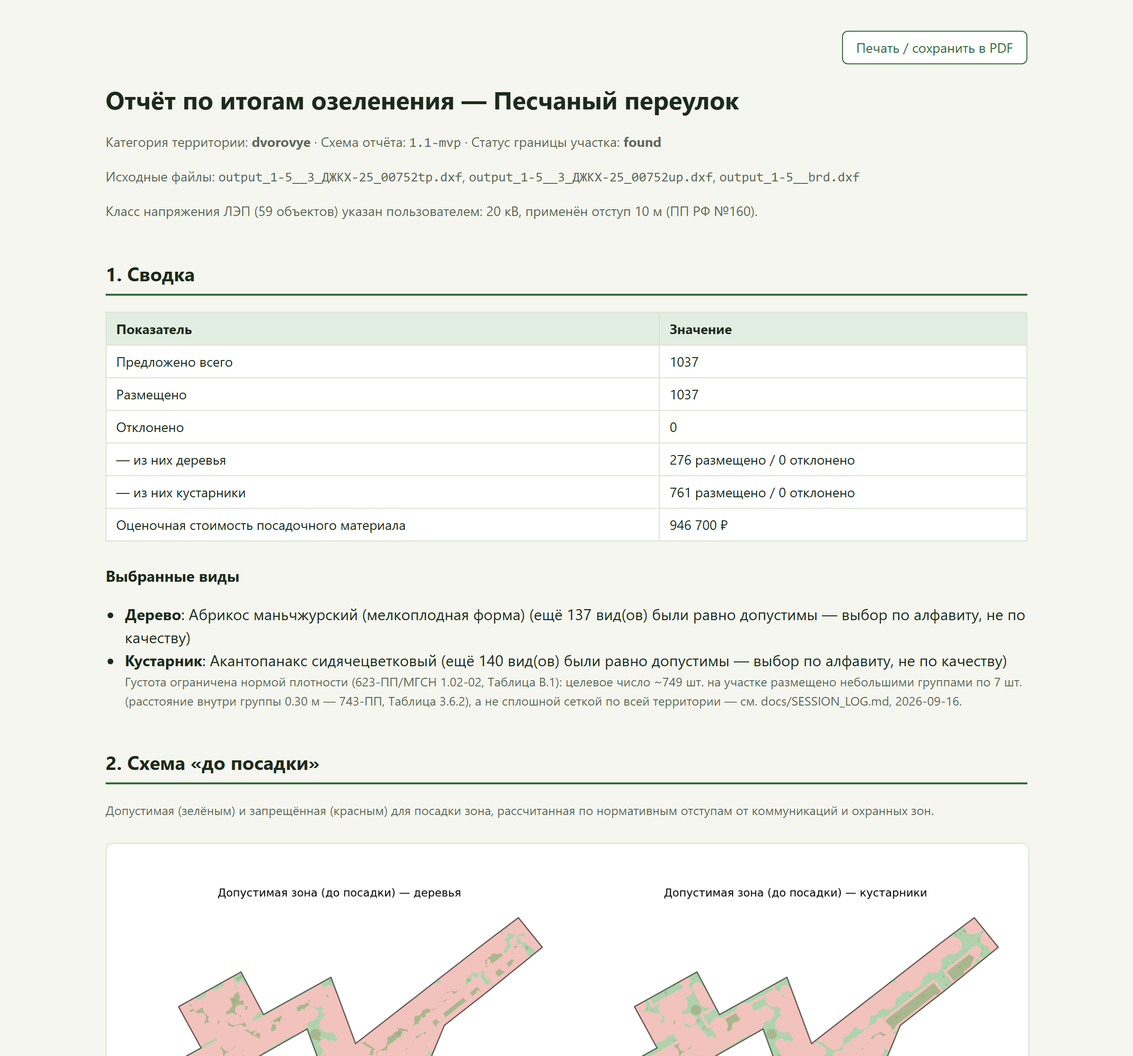
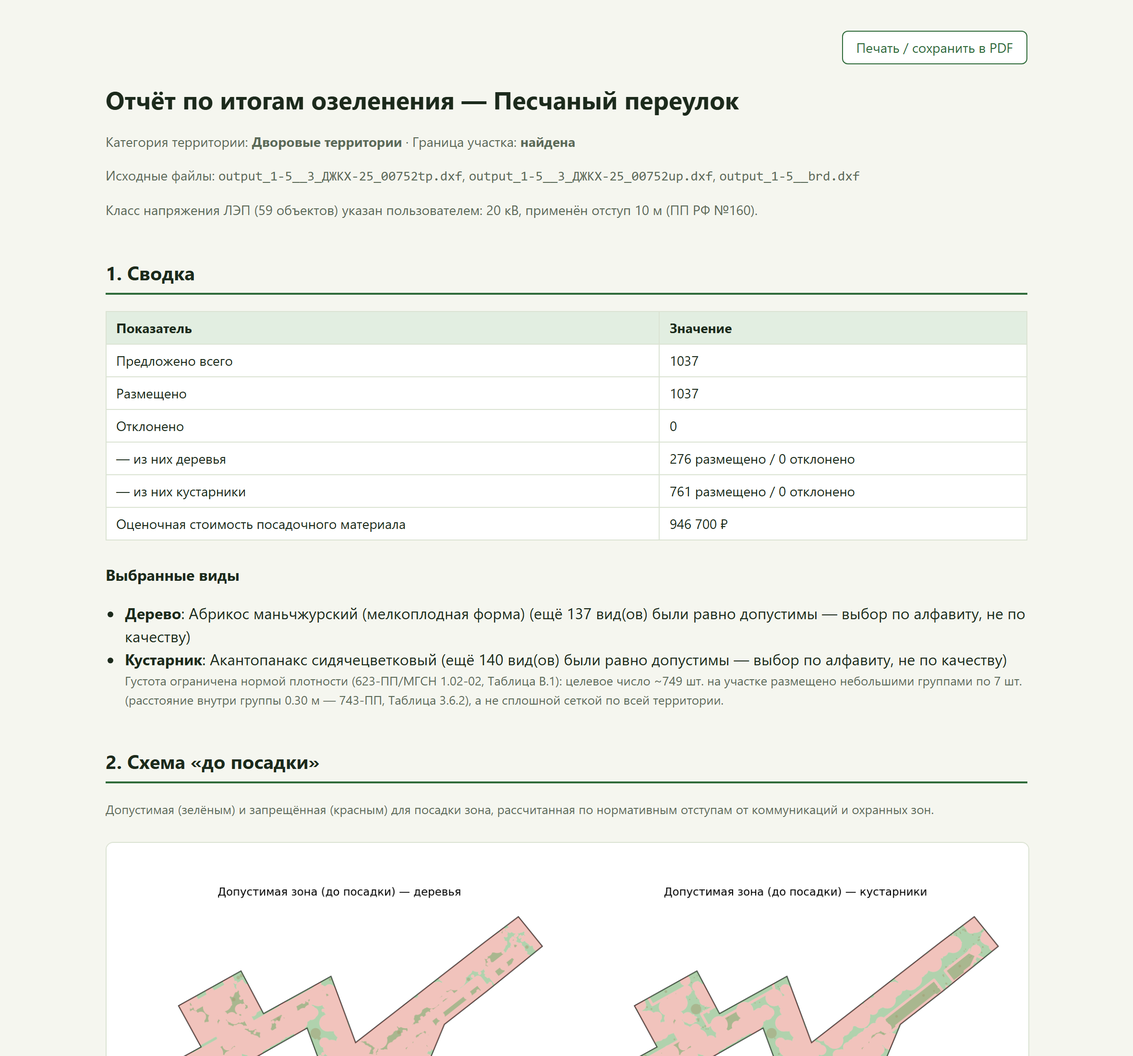
feat(report): отчёт без кодовых обозначений, компактная таблица деревьев; уточнено про DWG
Категория территории и граница участка указаны словами; ссылки на внутренние файлы и поля
убраны из видимого текста. Одинаковые основания посадки вынесены в нумерованный список над
таблицей (PDF отчёта 12 страниц -> 6). Слайд 3 и драфт: DWG конвертируется на рабочей
станции, онлайн-версия принимает DXF.

diff --git a/pipeline/report/interpretation_report.py b/pipeline/report/interpretation_report.py
@@ -125,32 +125,29 @@ def build_report(
     }
 
     known_simplifications = [
-        "applied_constraint_norms_by_kind (один раз на вид посадки, не на точку — см. "
-        "комментарий в коде про баг 168 ГБ от 2026-09-16) перечисляет все нормы, "
-        "применённые к данному виду посадки на участке, а не фактическое расстояние "
-        "от конкретной точки до ближайшего ограничения (docs/REPORT_DESIGN.md §5) — "
-        "доработка оставлена на следующий проход.",
+        "Для каждого вида посадки в отчёте перечислены все нормы, применённые на участке, "
+        "а не фактическое расстояние от конкретной точки до ближайшего ограничения — "
+        "уточнение по каждой точке оставлено на следующий этап.",
         "Совместимость посадок учитывается только по одному верифицированному правилу "
         "(сноска [6] каталога ДПиООС — можжевельник/яблоня-груша-айва, ржавчинные грибы, "
-        "см. species_choices ниже). Более широкая совместимость/аллелопатия и требования "
+        "см. раздел «Выбранные виды»). Более широкая совместимость/аллелопатия и требования "
         "к освещённости (теневая сторона зданий) не учитываются — нет верифицированного "
-        "источника (docs/ARCHITECTURE.md §3.1c, docs/OPEN_QUESTIONS.md).",
-        "estimated_cost_rub — оценка по data/reference/planting_cost_estimates.yaml, "
-        "не прайс-лист организаторов (устное упоминание, что цена зависит от питомника) — "
-        "значения редактируемы пользователем в этом файле. Целевой бюджет (10-25 млн руб/га) "
+        "источника.",
+        "Оценочная стоимость посадочного материала — расчёт по справочнику цен проекта, "
+        "не прайс-лист организаторов (устное упоминание, что цена зависит от питомника); "
+        "цены можно обновить, загрузив прайс-лист питомника в окне сервиса. Целевой бюджет (10-25 млн руб/га) "
         "тоже устное упоминание организаторов, не документ/норма — используется только для "
         "справочного сравнения в CLI-выводе, не ограничивает густоту посадки (проверено на "
         "реальном объекте: диапазон оказался значительно шире настоящей нормы плотности ниже).",
         "Густота кустарника определяется верифицированной нормой плотности (623-ПП/МГСН 1.02-02, "
-        "Таблица В.1, шт/га по категории территории, см. species_choices[].density_note и "
-        "pipeline/placement/density.py), размещается небольшими компактными группами "
+        "Таблица В.1, шт/га по категории территории, см. раздел «Выбранные виды»), "
+        "размещается небольшими компактными группами "
         "(СП82.13330.2016 п.9.30), а не сплошной сеткой по всей территории.",
     ]
     if site_boundary_status != "found":
         known_simplifications.insert(
             0,
-            f"site_boundary_status = {site_boundary_status!r} — граница участка не найдена "
-            "надёжно (см. docs/DATA_STRUCTURE.md §11). Нулевое или маленькое число "
+            f"Граница участка найдена ненадёжно (статус {site_boundary_status!r}). Нулевое или маленькое число "
             "предложенных посадок ниже может объясняться именно этим, а не тем, что "
             "участок действительно весь занят ограничениями — площадь допустимой зоны "
             "нужно проверить относительно реальных размеров участка вручную, прежде "
@@ -162,7 +159,7 @@ def build_report(
         known_simplifications.insert(
             0,
             f"Внимание: на участке {lep_unknown_voltage_count} объектов ЛЭП, чей класс напряжения "
-            "не удалось определить по имени слоя чертежа (см. pipeline/constraints/lep_zones.py) — "
+            "не удалось определить по имени слоя чертежа — "
             f"каждому из них проставлен максимально консервативный отступ "
             f"{lep_unknown_voltage_fallback_m:.0f} м (самый широкий тариф Постановления Правительства "
             "РФ №160 от 24.02.2009 — для воздушных линий 1150 кВ) — честный отказ от угадывания "
@@ -211,11 +208,11 @@ def build_report(
                 (
                     f"Пользователь указал класс напряжения {lep_voltage_override_kv:g} кВ (по "
                     "дополнительным материалам, не по чертежу) — применён отступ по этому классу, не максимально "
-                    "консервативный. См. known_simplifications для полного объяснения."
+                    "консервативный. Подробности — в разделе «Известные упрощения»."
                     if lep_voltage_override_kv is not None
                     else "Класс напряжения не определён по чертежу — применён максимально консервативный "
                     "тариф Постановления №160 (1150 кВ), а не подтверждённая норма для этой ЛЭП. См. "
-                    "known_simplifications для полного объяснения."
+                    "раздел «Известные упрощения» содержит подробности."
                 )
                 if lep_unknown_voltage_count > 0
                 else "На участке нет ЛЭП с неопределённым классом напряжения."

diff --git a/pipeline/run.py b/pipeline/run.py
@@ -209,8 +209,7 @@ def run_service_a(
                 f"Густота ограничена нормой плотности (623-ПП/МГСН 1.02-02, Таблица В.1): целевое "
                 f"число ~{target_count} шт. на участке размещено небольшими группами по "
                 f"{DEFAULT_SHRUB_GROUP_SIZE} шт. (расстояние внутри группы {intra_spacing_m:.2f} м — "
-                "743-ПП, Таблица 3.6.2), а не сплошной сеткой по всей территории — см. "
-                "docs/SESSION_LOG.md, 2026-09-16."
+                "743-ПП, Таблица 3.6.2), а не сплошной сеткой по всей территории."
             )
 
         placement_result = generate_placement(
@@ -374,8 +373,8 @@ def main(argv: list[str] | None = None) -> None:
             f"{result.lep_unknown_voltage_fallback_m:.0f} м (тариф для линий 1150 кВ, Постановление "
             "№160) для каждого из них. Реальный класс напряжения этой ЛЭП, скорее всего, ниже — но "
             "чертёж не даёт способа его определить. Это может критически уменьшить итоговую "
-            "допустимую зону для посадки (см. известный случай на «Камчатской улице» — "
-            "docs/SESSION_LOG.md, 2026-09-17: 55 м от одной ЛЭП дали зону, кратно превышающую сам "
+            "допустимую зону для посадки (известный случай на «Камчатской улице»: "
+            "55 м от одной ЛЭП дали зону, кратно превышающую сам "
             "участок). Если знаете реальный класс напряжения — укажите флагом --lep-voltage-kv."
         )
     elif lep_count > 0:

diff --git a/pipeline/report/human_report.py b/pipeline/report/human_report.py
@@ -34,12 +34,19 @@ import matplotlib.pyplot as plt
 from jinja2 import Environment, FileSystemLoader
 from shapely.geometry.base import BaseGeometry
 
+from pipeline.catalog.dpioos_species_catalog import DpioosSpeciesCatalog
 from pipeline.constraints.buffer_engine import ConstraintMapResult
 from pipeline.placement.generator import PlacementPoint, PlacementResult
 
 TEMPLATES_DIR = Path(__file__).resolve().parents[2] / "config" / "templates"
 
 _KIND_LABEL_RU = {"tree": "деревья", "shrub": "кустарники"}
+
+_BOUNDARY_STATUS_RU = {
+    "found": "найдена",
+    "found_low_confidence": "найдена, но ненадёжно",
+    "not_found": "не найдена",
+}
 
 
 @dataclass
@@ -134,8 +141,15 @@ def render_human_report(
     _render_scheme_image(constraint_results, placements_by_kind, "После размещения", scheme_after_path)
 
     env = Environment(loader=FileSystemLoader(str(TEMPLATES_DIR)), trim_blocks=True, lstrip_blocks=True)
+    category_code = report.get("territory_category", "")
+    try:
+        territory_label = DpioosSpeciesCatalog().territory_categories.get(category_code, category_code)
+    except Exception:  # справочник недоступен — в отчёте останется код категории
+        territory_label = category_code
     context = {
         "object_label": object_label,
+        "territory_label": territory_label,
+        "boundary_status_ru": _BOUNDARY_STATUS_RU.get(report.get("site_boundary_status"), report.get("site_boundary_status")),
         "report": report,
         "scheme_before_name": scheme_before_path.name,
         "scheme_after_name": scheme_after_path.name,

diff --git a/pipeline/otk/boundary_plausibility.py b/pipeline/otk/boundary_plausibility.py
@@ -104,9 +104,9 @@ def check_boundary_plausibility(
                 f"Площадь границы участка ({boundary_area:.1f} кв. м) подозрительно мала относительно "
                 f"охвата (bounding box) всех объектов-коммуникаций на участке ({features_bbox_area:.1f} кв. м) "
                 f"— отношение {ratio:.5f} ниже порога {_MIN_BOUNDARY_TO_FEATURES_BBOX_RATIO}. Вероятная "
-                "причина — сбой автосборки границы из разрозненных отрезков (см. docs/DATA_STRUCTURE.md "
-                "§11), а не то, что участок действительно настолько мал. Не доверять "
-                "site_boundary_status='found' автоматически — проверить вручную."
+                "причина — сбой автосборки границы из разрозненных отрезков, а не то, что "
+                "участок действительно настолько мал. Статус «граница найдена» не стоит принимать "
+                "на веру — проверьте границу участка."
             ),
         )
 

diff --git a/pipeline/review/placement_review.py b/pipeline/review/placement_review.py
@@ -180,7 +180,7 @@ def _check_species_eligibility(
                 kind="unknown_species",
                 detail=(
                     f"«{proposal.species_name_ru}» ({proposal.life_form}) не найден в каталоге "
-                    "ДПиООС (data/reference/dpioos_species_assortment.json, 329 видов) — либо "
+                    "ДПиООС (329 видов) — либо "
                     "опечатка в названии, либо вид отсутствует в официальном ассортименте mos.ru "
                     "для внутриквартальных территорий Москвы. Проверить написание вручную."
                 ),

diff --git a/pipeline/placement/budget.py b/pipeline/placement/budget.py
@@ -74,7 +74,7 @@ def compute_budget_constrained_spacing(
             f"чтобы уложиться в оставшийся бюджет ({remaining_budget_rub:,.0f} руб. из целевых "
             f"{target_budget_rub:,.0f} руб/участок при цене {unit_cost_rub:,.0f} руб/шт.) — "
             "физическая норма 743-ПП допускала бы более густую посадку, но это дало бы "
-            "нереалистичное число экземпляров (см. docs/OPEN_QUESTIONS.md, 2026-09-16)."
+            "нереалистичное число экземпляров."
         ).replace(",", " ")
     else:
         final_spacing = norm_spacing_m

diff --git a/docs/presentation_draft/slides.md b/docs/presentation_draft/slides.md
@@ -44,7 +44,7 @@
 **Схема (блоки слева направо):**
 Вход: DWG / DXF → Разбор слоёв и границы участка → Карта запретных зон (отступы 743-ПП + охранные зоны ЛЭП) → План посадок (автогенерация или проверка плана пользователя) → Контроль качества (ОТК) → Выход: DXF на отдельных слоях + отчёт.
 
-Если на входе DWG, он сначала конвертируется в DXF (ODA File Converter).
+Если на входе DWG, он сначала конвертируется в DXF (ODA File Converter) на рабочей станции; онлайн-версия принимает готовый DXF (в образе сервера конвертера нет, загрузка DWG там даёт понятное сообщение).
 
 **Картинка:** нарисовать в Фигме по схеме выше; структура есть в `docs/PROCESS_FLOWCHART.md` (формат Mermaid).
 
@@ -85,7 +85,7 @@
 **Заголовок:** Что мы решили на реальных данных
 
 **Текст (4 карточки):**
-1. **DWG вместо DXF.** Реальные чертежи датасета — DWG; добавлена автоматическая конвертация.
+1. **DWG вместо DXF.** Реальные чертежи датасета — DWG; добавлена автоматическая конвертация (ODA File Converter; на рабочей станции и в командной строке).
 2. **Разные слои и имена.** Слои названы по-разному у разных проектных бюро; словарь соответствий построен по реальным примерам датасета.
 3. **Граница участка.** Рисуется разными слоями и часто незамкнутой полилинией; контуры замыкаются, а ложные мелкие «границы» отсекаются по охвату.
 4. **Масштаб.** Один объект — 140 тысяч объектов-ограничений; генерация на плотном реальном объекте ускорена с 200 до 50 секунд, ответ сжат с 67,6 МБ до 390 КБ.

diff --git a/docs/FEATURES.md b/docs/FEATURES.md
@@ -141,3 +141,7 @@
 ## 2026-10-17 — Скачать DXF и открыть отчёт из окна сервиса
 
 После «Сгенерировать план» в блоке «Результат» появляются две кнопки: «Скачать DXF» (итоговый чертёж с посадками на слоях GREEN_AI_*) и «Открыть отчёт» (отчёт для пользователя в новой вкладке, из него можно сохранить PDF печатью). Сервер хранит последние 3 результата; после перезапуска сервиса или при устаревшей ссылке нужно сгенерировать план заново.
+
+## 2026-10-17 — Отчёт для пользователя: понятные названия и компактная таблица
+
+Категория территории и статус границы в отчёте указаны словами, без кодов и номера схемы; ссылки на внутренние файлы и поля убраны. Одинаковые основания посадки деревьев вынесены в нумерованный список над таблицей; печатный PDF отчёта по демо-объекту стал вдвое короче (6 страниц вместо 12).
